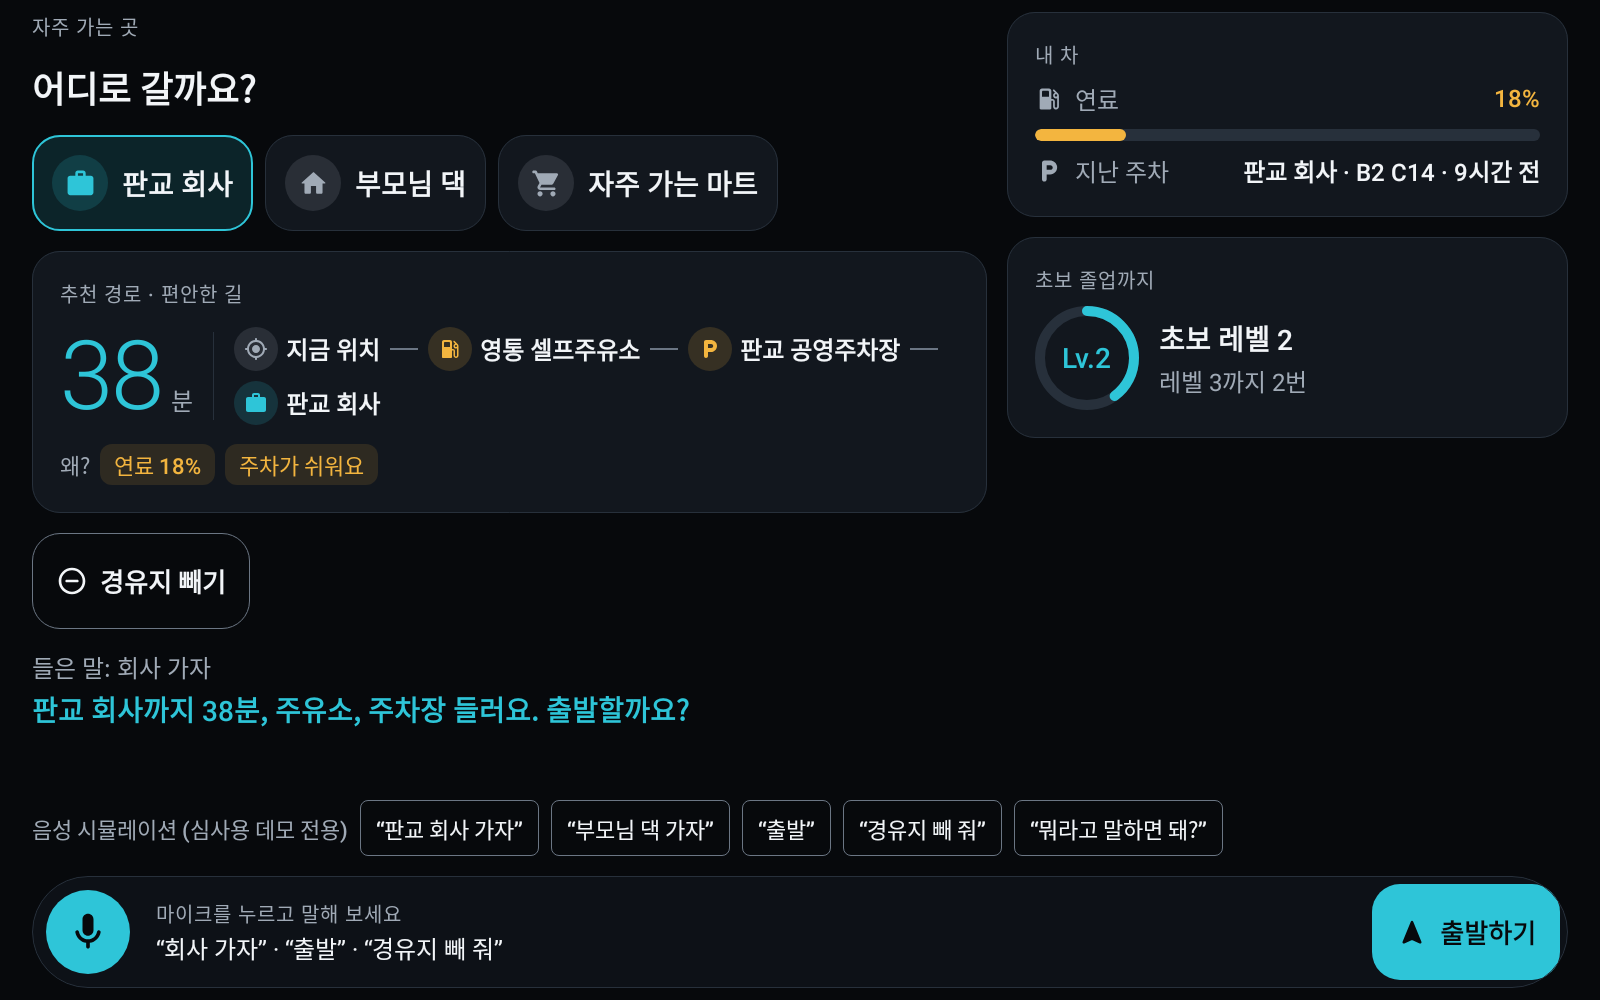
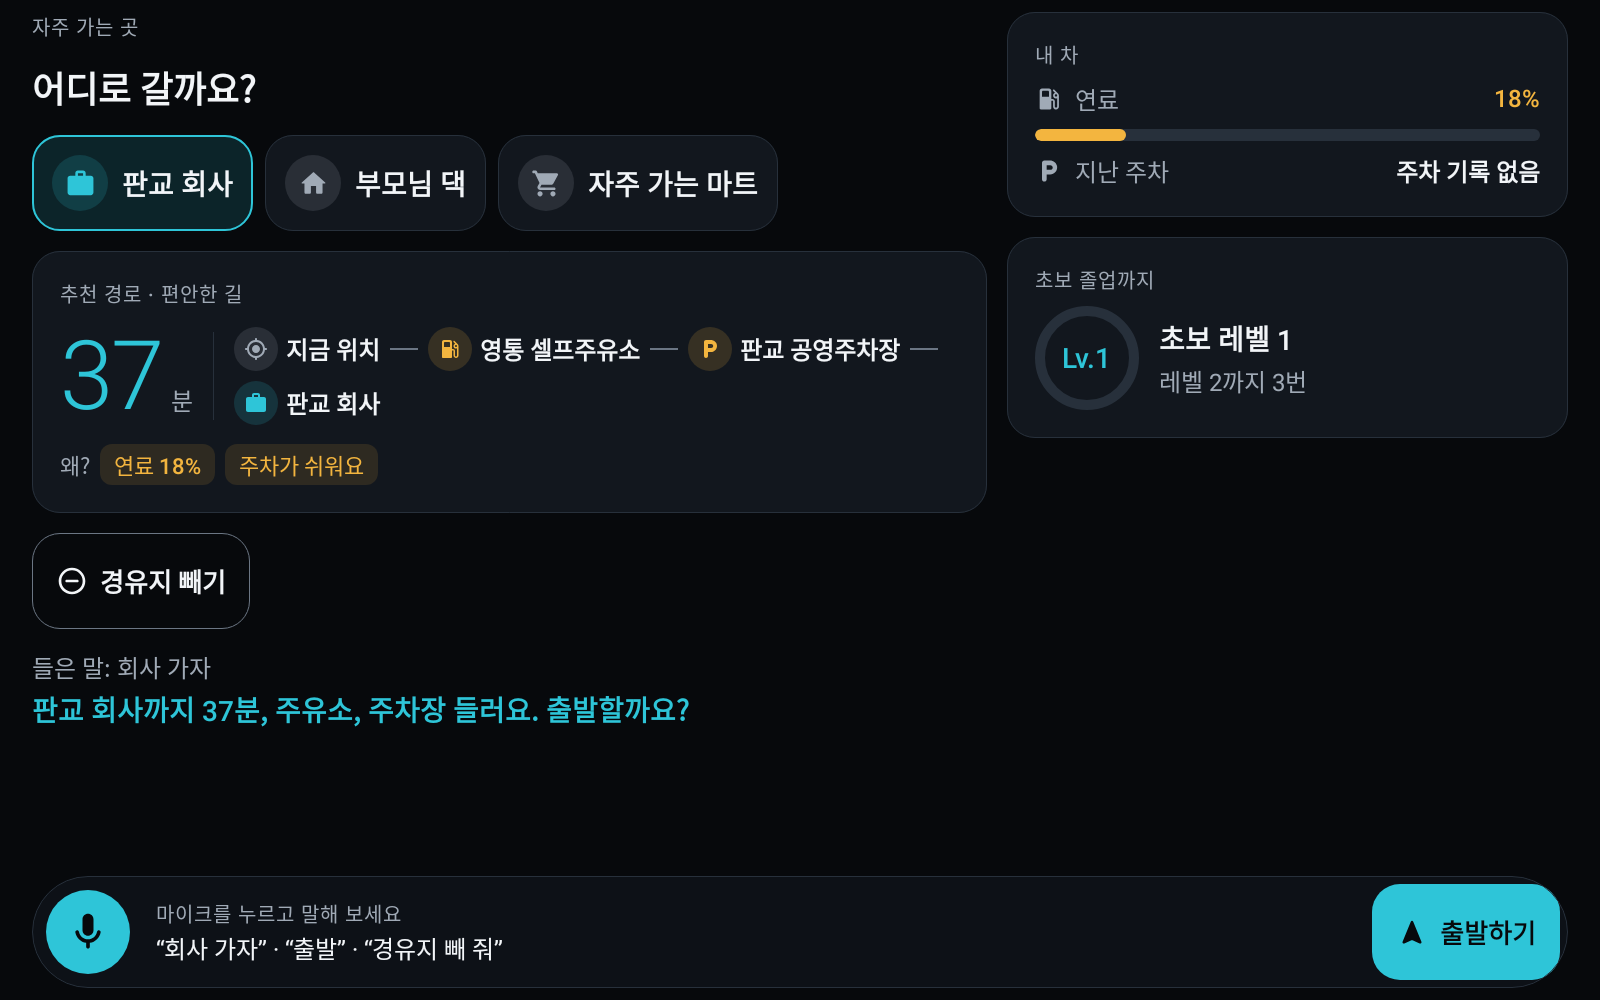
심사 관점 리뷰 반영: 데모 일관성·시나리오 지리·낮은 화면 배치
- 타이어 공기압 경고는 앞쪽(목적지 근처) 정비소를 제안 (판교IC 직전에 이미 지나친 죽전 휴게소를 넣던 문제)
- 정비소 검색도 휴게소처럼 '앞쪽에 있는 곳'을 고름
- 데모 처음부터: 자동차용 에뮬레이터의 운전자 사용자(u10) 데이터까지 지우고 차속 권한도 미리 허용
  (기존 pm clear는 다른 사용자 데이터를 지워 레벨이 초기화되지 않았음)
- 주행 카드: 화살표·거리 숫자가 있을 때 중복되는 "▶ 1km 앞 오른쪽이에요" 줄 제거
- 낮은 화면: 추천 경로 카드 제목 생략, 확인 질문 카드 축소로 홈·하차 질문이 한 화면에
- 화면 렌더링 데이터를 데모와 맞춤 (Lv.1, 37분, 주차 기록 없음, 판교IC 거리), 데모 칩 없이 렌더링
- 1024×768 에뮬레이터 실측 화면을 앱 영역만 잘라 docs/images/emulator에 저장

diff --git a/app/src/test/java/com/firstroad/mate/ui/WireframeScreenshotTest.kt b/app/src/test/java/com/firstroad/mate/ui/WireframeScreenshotTest.kt
@@ -68,7 +68,7 @@ class WireframeScreenshotTest {
     fun a_home_route_builder() = capture("A_home") {
         HomeScreen(
             state = HomeUiState(
-                level = 2,
+                level = 1,
                 favorites = listOf(office, office.copy(id = "p", name = "부모님 댁"), office.copy(id = "m", name = "자주 가는 마트")),
                 selected = office,
                 plan = RoutePlan(
@@ -78,17 +78,14 @@ class WireframeScreenshotTest {
                         WaypointSuggestion(parking, WaypointReason.EASY_PARKING),
                     ),
                     preference = RoutePreference.COMFORTABLE,
-                    estimatedMinutes = 38,
+                    estimatedMinutes = 37,
                 ),
                 fuelPercent = 18,
-                isDemo = true,
-                levelProgress = 0.4f,
-                drivesToNextLevel = 2,
-                lastParkingName = "판교 회사",
-                lastParkingMemo = "B2 C14",
-                lastParkedAtMillis = System.currentTimeMillis() - 9 * 60 * 60 * 1000L,
+                isDemo = false,
+                levelProgress = 0f,
+                drivesToNextLevel = 3,
                 heardText = "회사 가자",
-                answer = "판교 회사까지 38분, 주유소, 주차장 들러요. 출발할까요?",
+                answer = "판교 회사까지 37분, 주유소, 주차장 들러요. 출발할까요?",
             ),
             onSelectDestination = {},
             onMic = {},
@@ -110,8 +107,8 @@ class WireframeScreenshotTest {
                 nextTurnMeters = 1_000,
                 speedLimitKmh = 80,
                 upcomingTurns = listOf(
-                    TurnGuide("exit", TurnDirection.RIGHT, 2_600, "판교IC", isHighwayJunction = true),
-                    TurnGuide("city", TurnDirection.LEFT, 3_000, "판교역로", isHighwayJunction = false),
+                    TurnGuide("exit", TurnDirection.RIGHT, 5_800, "판교IC", isHighwayJunction = true),
+                    TurnGuide("city", TurnDirection.LEFT, 6_200, "판교역로", isHighwayJunction = false),
                 ),
                 remainingMinutes = 33,
                 remainingMeters = 14_200,
@@ -119,7 +116,7 @@ class WireframeScreenshotTest {
                 tension = 65,
                 isCalmActive = true,
                 isRestricted = true,
-                isDemo = true,
+                isDemo = false,
             ),
             actions = NO_DRIVE_ACTIONS,
         )
@@ -142,11 +139,11 @@ class WireframeScreenshotTest {
                 warning = WarningCardUi(
                     WarningLevel.CHECK_TODAY,
                     "타이어 공기압이 낮아요. 오늘 안에 점검해요",
-                    suggestedStop = PlaceCategory.REST_AREA,
+                    suggestedStop = PlaceCategory.REPAIR_SHOP,
                 ),
-                question = "휴게소를 경유지로 넣을까요?",
+                question = "정비소를 경유지로 넣을까요?",
                 heardText = "이거 계속 가도 돼?",
-                isDemo = true,
+                isDemo = false,
             ),
             actions = NO_DRIVE_ACTIONS,
         )
@@ -170,7 +167,7 @@ class WireframeScreenshotTest {
                 isLevelUp = false,
                 drivesToNextLevel = 2,
                 question = "뒷좌석 왼쪽 창문이 열려 있어요. 닫을까요?",
-                isDemo = true,
+                isDemo = false,
             ),
             actions = ParkActions(onFix = {}, onAnswer = {}, onMic = {}, onSimulate = {}, onDone = {}),
         )

diff --git a/app/src/main/java/com/firstroad/mate/domain/usecase/ClassifyWarningUseCase.kt b/app/src/main/java/com/firstroad/mate/domain/usecase/ClassifyWarningUseCase.kt
@@ -9,7 +9,7 @@ import javax.inject.Inject
 
 /**
  * ④ 경고등 통역사: 경고를 3단계 위험 등급으로 분류한다.
- * 안전을 위해 보수적으로 분류한다: 모르는 경고등은 '참고'가 아니라 '세운 뒤 확인'이고,
+ * 안전을 위해 보수적으로 분류한다: 모르는 경고등은 '참고'가 아니라 '오늘 중 점검'이고,
  * 바로 정차 등급은 정비소가 아니라 가장 가까운 쉴 곳을 제안한다.
  * 안내는 차량 취급설명서를 대체하지 않는다.
  */
@@ -24,8 +24,8 @@ class ClassifyWarningUseCase @Inject constructor() {
             WarningType.UNKNOWN -> WarningLevel.CHECK_TODAY to PlaceCategory.REST_AREA
             WarningType.ENGINE_CHECK,
             WarningType.AIRBAG -> WarningLevel.CHECK_TODAY to PlaceCategory.REPAIR_SHOP
-            // 공기압은 휴게소·주유소에서 확인할 수 있다. 고속도로에서도 가는 길에 들르기 쉬운 휴게소를 제안한다.
-            WarningType.TIRE_PRESSURE_LOW -> WarningLevel.CHECK_TODAY to PlaceCategory.REST_AREA
+            // 공기압은 오늘 안에 점검하면 된다. 가는 길 앞쪽(목적지 근처)의 정비소를 제안한다.
+            WarningType.TIRE_PRESSURE_LOW -> WarningLevel.CHECK_TODAY to PlaceCategory.REPAIR_SHOP
             WarningType.LOW_FUEL -> WarningLevel.CHECK_TODAY to PlaceCategory.GAS_STATION
             WarningType.LOW_BATTERY -> WarningLevel.CHECK_TODAY to PlaceCategory.EV_CHARGER
         }

diff --git a/app/src/main/java/com/firstroad/mate/ui/common/QuestionBar.kt b/app/src/main/java/com/firstroad/mate/ui/common/QuestionBar.kt
@@ -25,11 +25,16 @@ fun QuestionBar(
     question: String,
     onAnswer: (Boolean) -> Unit,
     modifier: Modifier = Modifier,
+    compact: Boolean = false,
 ) {
-    CockpitCard(modifier = modifier.fillMaxWidth(), accent = MaterialTheme.colorScheme.primary, contentPadding = FirstRoad.dimens.gap) {
+    CockpitCard(
+        modifier = modifier.fillMaxWidth(),
+        accent = MaterialTheme.colorScheme.primary,
+        contentPadding = if (compact) 14.dp else FirstRoad.dimens.gap,
+    ) {
         Row(verticalAlignment = Alignment.CenterVertically, horizontalArrangement = Arrangement.spacedBy(FirstRoad.dimens.smallGap)) {
             Icon(Icons.Rounded.RecordVoiceOver, contentDescription = null, tint = MaterialTheme.colorScheme.primary, modifier = Modifier.size(32.dp))
-            Text(question, style = MaterialTheme.typography.titleLarge)
+            Text(question, style = if (compact) MaterialTheme.typography.titleMedium else MaterialTheme.typography.titleLarge)
         }
         Row(horizontalArrangement = Arrangement.spacedBy(FirstRoad.dimens.gap)) {
             BigActionButton(stringResource(R.string.answer_yes), { onAnswer(true) }, Modifier.weight(1f), icon = Icons.Rounded.Check)

diff --git a/app/src/main/java/com/firstroad/mate/domain/usecase/ExecuteVoiceCommandUseCase.kt b/app/src/main/java/com/firstroad/mate/domain/usecase/ExecuteVoiceCommandUseCase.kt
@@ -67,7 +67,7 @@ class ExecuteVoiceCommandUseCase @Inject constructor(
 
     /**
      * - 주차장: 목적지 근처 (목적지를 모르면 현재 위치)
-     * - 휴게소: 지나온 곳이 아니라 앞쪽에 있는 곳 (목적지까지 거리가 지금보다 가까운 곳)
+     * - 휴게소·정비소: 지나온 곳이 아니라 앞쪽에 있는 곳 (목적지까지 거리가 지금보다 가까운 곳)
      * - 그 밖: 현재 위치에서 가까운 곳
      */
     private suspend fun findPlace(category: PlaceCategory, context: VoiceContext): Place? {
@@ -78,7 +78,7 @@ class ExecuteVoiceCommandUseCase @Inject constructor(
                 val near = destination ?: here ?: return null
                 placeRepository.searchNearby(category, near, PARKING_RADIUS_M).firstOrNull()
             }
-            PlaceCategory.REST_AREA -> {
+            PlaceCategory.REST_AREA, PlaceCategory.REPAIR_SHOP -> {
                 val start = here ?: return null
                 if (destination == null) {
                     return placeRepository.searchNearby(category, start, REST_RADIUS_M).firstOrNull()

diff --git a/app/src/main/java/com/firstroad/mate/data/datasource/demo/SamplePlaceDataSource.kt b/app/src/main/java/com/firstroad/mate/data/datasource/demo/SamplePlaceDataSource.kt
@@ -42,7 +42,7 @@ class SamplePlaceDataSource @Inject constructor() {
             Place("park-2", "판교역 환승주차장", "경기 성남시 분당구 (예시)", GeoPoint(37.3947, 127.1112), PlaceCategory.PARKING),
             Place("rest-1", "기흥 휴게소", "경부고속도로 서울 방향 (예시)", GeoPoint(37.2560, 127.1150), PlaceCategory.REST_AREA),
             Place("rest-2", "죽전 휴게소", "경부고속도로 서울 방향 (예시)", GeoPoint(37.3350, 127.1050), PlaceCategory.REST_AREA),
-            Place("repair-1", "판교 자동차 정비소", "경기 성남시 분당구 (예시)", GeoPoint(37.3990, 127.1000), PlaceCategory.REPAIR_SHOP),
+            Place("repair-1", "판교 타이어 정비소", "경기 성남시 분당구 (예시)", GeoPoint(37.3990, 127.1000), PlaceCategory.REPAIR_SHOP),
             Place("repair-2", "영통 타이어 정비소", "경기 수원시 영통구 (예시)", GeoPoint(37.2550, 127.0600), PlaceCategory.REPAIR_SHOP),
         )
     }

diff --git a/app/src/main/java/com/firstroad/mate/ui/home/component/RoutePlanCard.kt b/app/src/main/java/com/firstroad/mate/ui/home/component/RoutePlanCard.kt
@@ -54,7 +54,11 @@ fun RoutePlanCard(
     onRemoveWaypoints: (() -> Unit)? = null,
 ) {
     val dimens = FirstRoad.dimens
-    CockpitCard(modifier = modifier.fillMaxWidth(), caption = stringResource(R.string.home_recommended), contentPadding = if (compact) 20.dp else dimens.cardPadding) {
+    CockpitCard(
+        modifier = modifier.fillMaxWidth(),
+        caption = if (compact) null else stringResource(R.string.home_recommended),
+        contentPadding = if (compact) 18.dp else dimens.cardPadding,
+    ) {
         Row(verticalAlignment = Alignment.CenterVertically, horizontalArrangement = Arrangement.spacedBy(dimens.gap)) {
             Numeral(plan.estimatedMinutes.toString(), stringResource(R.string.home_route_minutes), huge = !compact, color = MaterialTheme.colorScheme.primary)
             Box(Modifier.width(1.dp).height(if (compact) 56.dp else 88.dp).background(MaterialTheme.colorScheme.outline))

diff --git a/app/src/test/java/com/firstroad/mate/domain/usecase/DriveTickScenarioTest.kt b/app/src/test/java/com/firstroad/mate/domain/usecase/DriveTickScenarioTest.kt
@@ -85,12 +85,12 @@ class DriveTickScenarioTest {
     }
 
     @Test
-    fun `45초 타이어 경고는 오늘 중 점검 등급이고 휴게소 경유를 묻는다`() {
+    fun `45초 타이어 경고는 오늘 중 점검 등급이고 정비소 경유를 묻는다`() {
         val warnings = said().filterIsInstance<Guidance.WarningNotice>()
         assertEquals(listOf(Guidance.WarningNotice(WarningType.TIRE_PRESSURE_LOW, WarningLevel.CHECK_TODAY)), warnings)
         assertTrue(firstAt { it is DriveEvent.ShowWarning } in 45f..46f)
         val ask = events.map { it.second }.filterIsInstance<DriveEvent.Ask>().single()
-        assertEquals(Guidance.AskAddWaypoint(PlaceCategory.REST_AREA), ask.guidance)
+        assertEquals(Guidance.AskAddWaypoint(PlaceCategory.REPAIR_SHOP), ask.guidance)
     }
 
     @Test

diff --git a/app/src/main/java/com/firstroad/mate/ui/drive/component/NextActionCard.kt b/app/src/main/java/com/firstroad/mate/ui/drive/component/NextActionCard.kt
@@ -88,10 +88,11 @@ fun NextActionCard(
                 }
             }
             Text(sentence, style = MaterialTheme.typography.displayLarge)
-        }
-        if (!compact) {
-            nextTurnText?.let {
-                Text("▶ $it", style = MaterialTheme.typography.titleLarge, color = MaterialTheme.colorScheme.onSurfaceVariant)
+            // 화살표·거리 숫자가 없을 때만(회전 정보가 숫자로 안 보일 때) 다음 회전 문장을 덧붙인다.
+            if (turnMeters == null) {
+                nextTurnText?.let {
+                    Text("▶ $it", style = MaterialTheme.typography.titleLarge, color = MaterialTheme.colorScheme.onSurfaceVariant)
+                }
             }
         }
     }

diff --git a/app/src/main/java/com/firstroad/mate/ui/drive/DriveScreen.kt b/app/src/main/java/com/firstroad/mate/ui/drive/DriveScreen.kt
@@ -123,7 +123,7 @@ fun DriveScreen(state: DriveUiState, actions: DriveActions, modifier: Modifier =
                 state.warning?.let {
                     WarningCard(it, showActions = showWarningActions, actions.onAddSuggestedStop, actions.onDismissWarning, compact = isShort)
                 }
-                state.question?.let { QuestionBar(it, actions.onAnswer) }
+                state.question?.let { QuestionBar(it, actions.onAnswer, compact = isShort) }
                 // 경고·질문이 없을 때만: 이어지는 갈림길 예습과 들은 말 (카드가 겹쳐 잘리지 않게).
                 if (!hasCardActions && !isShort) {
                     if (isWide) UpcomingTurnsCard(state.upcomingTurns)

diff --git a/app/src/main/java/com/firstroad/mate/ui/park/ParkScreen.kt b/app/src/main/java/com/firstroad/mate/ui/park/ParkScreen.kt
@@ -94,7 +94,7 @@ fun ParkScreen(state: ParkUiState, actions: ParkActions, modifier: Modifier = Mo
                 if (!isShort) Caption(stringResource(R.string.park_checks_caption))
                 // 질문이 떠 있으면 타일의 '닫기'는 질문의 '응'과 같은 일이라 숨겨, 질문이 바로 아래에 보이게 한다.
                 CheckList(checks = state.checks, onFix = actions.onFix, showFixButtons = state.question == null)
-                state.question?.let { QuestionBar(it, actions.onAnswer) }
+                state.question?.let { QuestionBar(it, actions.onAnswer, compact = isShort) }
                 ParkingCard(state)
                 if (!isWide) ReportCard(state)
             }

diff --git a/app/src/test/java/com/firstroad/mate/domain/usecase/ClassifyWarningUseCaseTest.kt b/app/src/test/java/com/firstroad/mate/domain/usecase/ClassifyWarningUseCaseTest.kt
@@ -28,9 +28,9 @@ class ClassifyWarningUseCaseTest {
     }
 
     @Test
-    fun `타이어 공기압 경고는 오늘 중 점검이고 가는 길의 휴게소에서 확인하도록 제안한다`() {
+    fun `타이어 공기압 경고는 오늘 중 점검이고 가는 길의 정비소를 제안한다`() {
         val result = classify(VehicleWarning(WarningType.TIRE_PRESSURE_LOW))
         assertEquals(WarningLevel.CHECK_TODAY, result.level)
-        assertEquals(PlaceCategory.REST_AREA, result.suggestedStop)
+        assertEquals(PlaceCategory.REPAIR_SHOP, result.suggestedStop)
     }
 }

diff --git a/app/src/test/java/com/firstroad/mate/data/repository/PhraseLengthTest.kt b/app/src/test/java/com/firstroad/mate/data/repository/PhraseLengthTest.kt
@@ -49,7 +49,7 @@ class PhraseLengthTest {
             add(Guidance.AskAddWaypoint(it))
             add(Guidance.NoPlaceFound(it))
         }
-        add(Guidance.WaypointAdded("죽전 휴게소"))
+        add(Guidance.WaypointAdded("판교 타이어 정비소"))
         CabinArea.entries.forEach { add(Guidance.CheckIssue(CheckType.WINDOW, it)) }
         add(Guidance.AllClear)
         add(Guidance.CarLocation("B2 C14", 540))
